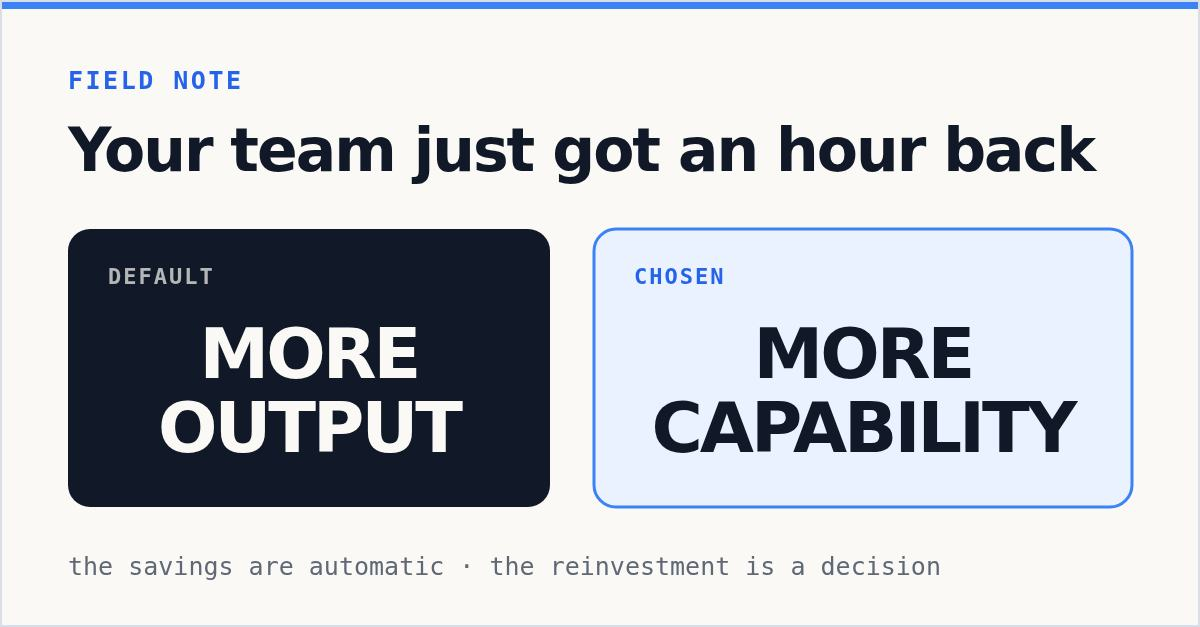
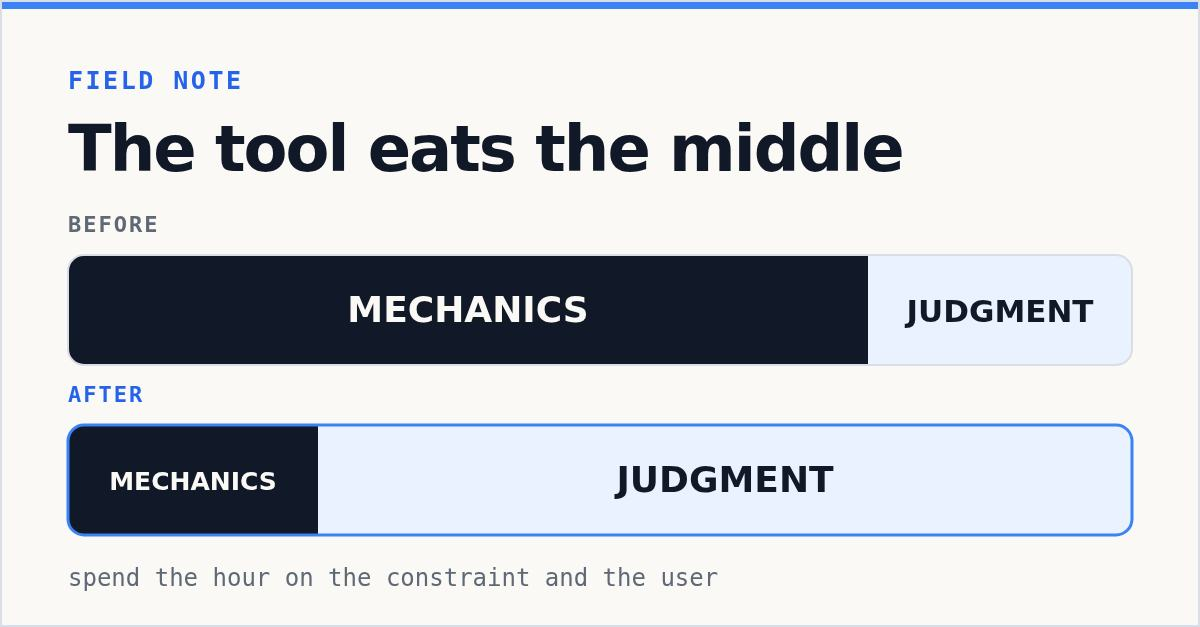
Reorient the Field Note around engineering judgment and the user's system
Ryan's spine for the piece is the shift he lived once already: coming out
of school into mechanical engineering in 2009, as CAD, CFD, and cheap
virtual simulation collapsed the work that had been the job. Running the
cases by hand gave way to defining the constraint, choosing which
scenario mattered, and reading a result with enough intuition to catch a
confident error. AI is running the same play on software and product
work, so the hour it returns belongs to judgment and to time in the
system with users.

Retitle to "AI Saves the Hour. Spend It on Judgment." The slug is
unchanged, so the canonical URL holds.

Cut to 617 words from 765 and thin the external research to a single
light reference, per Ryan's note that deep citation is not his register.
The second study, the racing anecdote, and the Merckx beat come out; the
first-party eval loop and the systems-thinking-with-users section stay
and carry more weight.

The 2009 role is described as the first engineering job out of school
without naming an employer, because the public resume dates Caterpillar
from 2012 and the two should not contradict each other.

Replace the header with a before/after diagram of the tool eating the
mechanical middle while judgment expands, which is the thesis in one
picture and true of both simulation and AI. The jagged-frontier art moves
inline to the research paragraph, and the spend diagram is cut as
redundant. Header caption rewrapped to stop it overflowing the canvas.
[…]

Changed region(s): [[0.0308, 0.3333, 0.9558, 0.9394], [0.0617, 0.1818, 0.925, 0.303]]

diff --git a/portfolio/content/writing/ai-saves-the-hour.md b/portfolio/content/writing/ai-saves-the-hour.md
@@ -1,15 +1,15 @@
 ---
-title: AI Saves the Hour. Leaders Spend It.
-summary: The hour AI gives back arrives on its own. Where it goes is a decision somebody makes, and most teams spend it on more of the same work without ever choosing to.
+title: AI Saves the Hour. Spend It on Judgment.
+summary: Simulation moved mechanical engineering up to judgment in 2009. AI is doing the same thing now, and the hour it gives back belongs to defining the constraint and sitting in the system with your users.
 date: 2026-07-22
 updated: 2026-07-25
 canonical: https://ryanbaumann.dev/writing/ai-saves-the-hour/
-image: /img/writing/ai-jagged-frontier.svg
-imageAlt: Inside the jagged frontier the same AI tool made consultants faster and better; on a task just outside it, the same tool made them worse.
+image: /img/writing/ai-judgment-shift.svg
+imageAlt: Before the tool, most engineering time went to running the cases and a little to judgment; after the tool, the proportions invert.
 socialImage: /social/ai-saves-the-hour.jpg
-shareTitle: Your Team Just Got an Hour Back
-shareSummary: The savings are automatic. The reinvestment is a decision somebody has to make on purpose.
-shareImageAlt: A social card showing one hour saved by AI branching toward more requested output or toward more capability.
+shareTitle: Simulation Already Did This to Engineering
+shareSummary: CAD and CFD ate the middle of the job in 2009. What was left was judgment, and AI is running the same play.
+shareImageAlt: A social card showing the mechanics of engineering work shrinking and judgment expanding to fill what the tool left behind.
 tags: ["ai", "product", "field notes"]
 draft: true
 noindex: true
@@ -17,36 +17,32 @@ noindex: true
 
 "We shipped it in a morning instead of a week."
 
-I hear some version of that constantly now, and it's usually true. My team lives it. What almost nobody talks about is the rest of the week.
+I hear some version of that constantly now, and it's usually true. The savings show up on their own. Where they go doesn't.
 
-The savings show up on their own. Where they go doesn't.
+I've watched this shift happen once already, from inside it. I came out of school into mechanical engineering in 2009, right as CAD, CFD, and cheap virtual simulation were changing the job day to day. Work that had *been* the job, running the cases by hand, checking assumptions one at a time, grinding through scenarios to see which one broke, collapsed into something you set up in an afternoon and ran overnight.
 
-Before you can spend a gain you have to be sure you got one, which turns out to be harder than it sounds. In a [preregistered study with 758 BCG consultants](https://www.hbs.edu/ris/Publication%20Files/dell-acqua-et-al-2026-navigating-the-jagged-technological-frontier_5c589c8c-fbb5-458f-b285-c944746cd717.pdf), the group using GPT-4 finished faster and produced better work across a set of tasks the model handled well. On a business problem sitting just outside that set, the same tool made them worse. The researchers call this the jagged technological frontier, which is a good name for the thing where a model is excellent at one task and confidently wrong about the one sitting right next to it.
+The work didn't disappear. It moved up.
 
-The uncomfortable part isn't that the frontier exists. It's that you can't see the edge from inside the task.
+What was left was harder and much less visible. Define the constraint correctly. Decide which scenarios actually matter. Read the output with enough intuition to catch the moment the simulation is confidently wrong, because a mesh can be beautiful and meaningless, and the engineers who got good were the ones who could look at a clean result, feel that something was off, and go find out why.
 
-Running Developer Experience Engineering for Google Maps Platform, the only answer my team has found that holds up is to go measure it. We build task-based [evals](/work/agentic-evals/) for our AI context products and score each launch against a no-context baseline, because the delta is the part that tells the truth: it says whether what we shipped actually made an agent better at building with us, or whether it just performed well in a room. A convincing demo says almost nothing about where the frontier moved. When a score drops, somebody opens the trace and reads for the first wrong decision.
+That's the same job now. AI compresses the middle and hands you back the constraint and the call.
 
-That work is unglamorous and it is the bar. You don't get to skip it and still claim the hour.
+Which is why knowing where the tool is unreliable stopped being optional. In a [study with 758 consultants](https://pubsonline.informs.org/doi/10.1287/orsc.2025.21838), the same AI helped on the tasks it suited and hurt on one sitting just outside them. The researchers named that boundary the jagged frontier. Simulation had its own version, and the lesson carries over intact: you can't see the edge from inside the task, so you have to go check.
 
-Say you do it, and the hour is real. Now what?
+![The same tool made consultants faster and better inside the frontier and worse on a task just outside it, and the boundary between them is unmarked.](/img/writing/ai-jagged-frontier.svg)
 
-The default requires no decision at all, which is exactly why it wins. The hour becomes more requested output. Ten more drafts, ten more tickets, the same work at higher volume, and a quarter later everyone is just as busy and no better.
+My team checks by measuring. We build task-based [evals](/work/agentic-evals/) and score each launch against a no-context baseline, because the delta is the part that tells the truth about whether we made an agent better at building with us. When a score drops, somebody opens the trace and reads for the first wrong decision.
 
-![An hour saved by AI can become more requested output by default, or be reinvested in customers, harder problems, direct feedback, and judgment.](/img/writing/ai-saved-hour-spend.svg)
+The other half is where I think most teams underspend, and it's the part I care most about: time in the system with the people using it. A constraint is not something a model hands you. It comes from watching somebody hit the same wall for the third time, understanding what they're really optimizing for, and seeing how the pieces of their workflow push on each other. Get that wrong and AI will help you build the wrong thing faster than anyone has ever built the wrong thing.
 
-The other option costs something, which is the whole reason it needs a leader. Put somebody in front of a customer. Hand them the problem with no known answer. Let them make a call on incomplete information, own it, get told directly that it was wrong, and go again.
+So the hour comes back. Then what?
 
-That's how judgment gets built and there's no compressed version of it. Automate every slow, hard, faintly unpleasant task and you'll produce more while developing nobody.
+The default takes no decision at all, which is exactly why it usually wins. The hour becomes more requested output. Ten more drafts, ten more tickets, the same work at higher volume, and a quarter later everyone is just as busy and no better.
 
-There's some evidence the two skills are one skill. A [lab study](https://www.nber.org/papers/w33662) found that people who led AI agents well also tended to lead human teams well, and the correlation was strong. What separated them was ordinary: they asked more questions and did more back-and-forth. Not a new management technique. The old one, pointed at a new kind of teammate.
+Spending it on purpose costs something. Put somebody in front of a user. Hand them the problem with no known answer. Let them set the constraint, make the call, be wrong where people can see it, and go again. That's how engineering judgment gets built, and there's still no compressed version of it.
 
-I've been getting the slow version of this lesson at home. At 2 a.m. with a daughter there is no measurable output, unless diapers count. You repeat yourself, stay patient, fail at staying patient, and show up again the next night. Teams need some version of that: set the bar, push when it's needed, listen, and believe in somebody a little before the spreadsheet makes it obvious.
+I'm getting the slow version of the same lesson at home. At 2 a.m. with a daughter there's no measurable output, and you show up anyway, because showing up is the thing that builds the thing you actually want.
 
-I learned the first half of this before I ever wrote software. In 2009 I finally [saw 400 watts on the computer](https://racewithryanbaumann.blogspot.com/2009/08/racing-has-nothing-to-do-with.html), 53 minutes of it, on the state time trial course in pouring rain, on my road bike, because I was sure the number was the thing worth chasing. Busche and Bean each put more than two minutes into me. They'd brought the right equipment for the course. I'd brought a statistic I was proud of.
+So use AI. Give it real work, measure the delta, go find out where it falls on its face. Then spend what it gives back on the two things it won't do for you: the judgment to set the right constraint, and the hours in the system with the people you're building for.
 
-The year I actually got faster was the year [Axel Merckx ran our Trek-Livestrong team](https://racewithryanbaumann.blogspot.com/2009/02/santa-rosa-camp-recap.html) with Belgian humor, real friendship, and the occasional verbal smackdown. He couldn't pedal the bike for us. What he could do was get a group of young bike racers to quit racing like a group of young bike racers.
-
-So use AI. Give it real work, measure the delta, and go find out exactly where it falls on its face. Then ask the question no productivity number will answer for you: what did we do with the hour? Did somebody make a better call, did the customer get something better, did anyone on the team learn a thing that stays true after the model changes?
-
-The model changes every few months. How we spend what it hands back is a decision we make over and over, and it's still ours.
+The tools will keep getting better at the middle. The ends are still ours.

diff --git a/docs/ai-saves-the-hour-visuals.md b/docs/ai-saves-the-hour-visuals.md
@@ -4,22 +4,22 @@ These visuals are deterministic SVG compositions built from the article's verifi
 
 ## Header
 
+- Source: `portfolio/static/img/writing/ai-judgment-shift.svg`
+- Size: 1200×675
+- Job: show the tool collapsing the mechanical middle of engineering work so judgment expands to fill what is left. The same shape describes simulation in 2009 and AI now, which is the article's thesis.
+- Inputs: the essay's account of CAD, CFD, and virtual simulation changing the day-to-day work of mechanical engineering, and the judgment tasks that remained. Proportions are illustrative, not measured.
+
+## Inline mechanism
+
 - Source: `portfolio/static/img/writing/ai-jagged-frontier.svg`
 - Size: 1200×675
 - Job: show that the same tool helped inside the frontier and hurt just outside it, and that the boundary is unmarked.
 - Inputs: the preregistered 758-consultant BCG field experiment (Dell'Acqua et al., *Organization Science*), where GPT-4 improved speed and quality inside the frontier and degraded performance on a task outside it.
-
-## Inline mechanism
-
-- Source: `portfolio/static/img/writing/ai-saved-hour-spend.svg`
-- Size: 1200×675
-- Job: show the leadership decision that follows an AI productivity gain, and that only one branch requires a decision.
-- Inputs: the essay's contrast between converting saved time into requested output and reinvesting it in customers, harder problems, direct feedback, and judgment.
 
 ## Social card
 
 - Source: `docs/ai-saves-the-hour-social-source.svg`
 - Output: `portfolio/static/social/ai-saves-the-hour.jpg`
 - Size: 1200×627
-- Job: make the default-versus-chosen spend legible at thumbnail size.
+- Job: carry the before/after shift at thumbnail size.
 - Rendering: Chromium via the repository's existing Playwright dev dependency, JPEG, quality 76. The card source uses flat hex values rather than CSS custom properties because it is rasterized once for the light-mode preview surface.

diff --git a/CHANGELOG.md b/CHANGELOG.md
@@ -18,7 +18,7 @@ All notable changes to this project will be documented in this file.
 - Cleaned up `.agents/skills/` by removing redundant or globally available skills (`geocoding-api-web-api`, `google-maps-environment-apis`, `google-maps-js-2d`, `google-maps-js-3d`, `maps-javascript-api-javascript`, `places-api-web-api`, `pollen-api-web-api`, `setup-local-environment`, `weather-api-web-api`).
 
 ### Added
-- Added the private Field Note “AI Saves the Hour. Leaders Spend It.” on the leadership decision that follows an AI productivity gain, grounded in the agentic eval loop, two published studies, and three original visuals.
+- Added the private Field Note “AI Saves the Hour. Spend It on Judgment.” arguing that AI moves engineering work up to judgment and systems thinking with users, the way simulation did in 2009, with the agentic eval loop and two original visuals.
 - Added the Field Note “The Model That Picks Your Platform Doesn't Write the Code” on tiered coding agents and where a developer platform's DevX strategy should focus, with a header flow diagram, an inline two-readers diagram, and a generated social card.
 - Added OAuth-admin staging of editable, unpublished LinkedIn and X drafts beside each Field Note, plus first-attempt merge staging for newly added drafts, with tracked starter copy, opt-out metadata, side-effect-free workflow reruns, and secret-safe configuration.
 - Completed the Writer edit flow with focused direct-branch saves, in-dashboard errors, and a GitHub merge link when a protected workflow uses a separate publishing branch.
